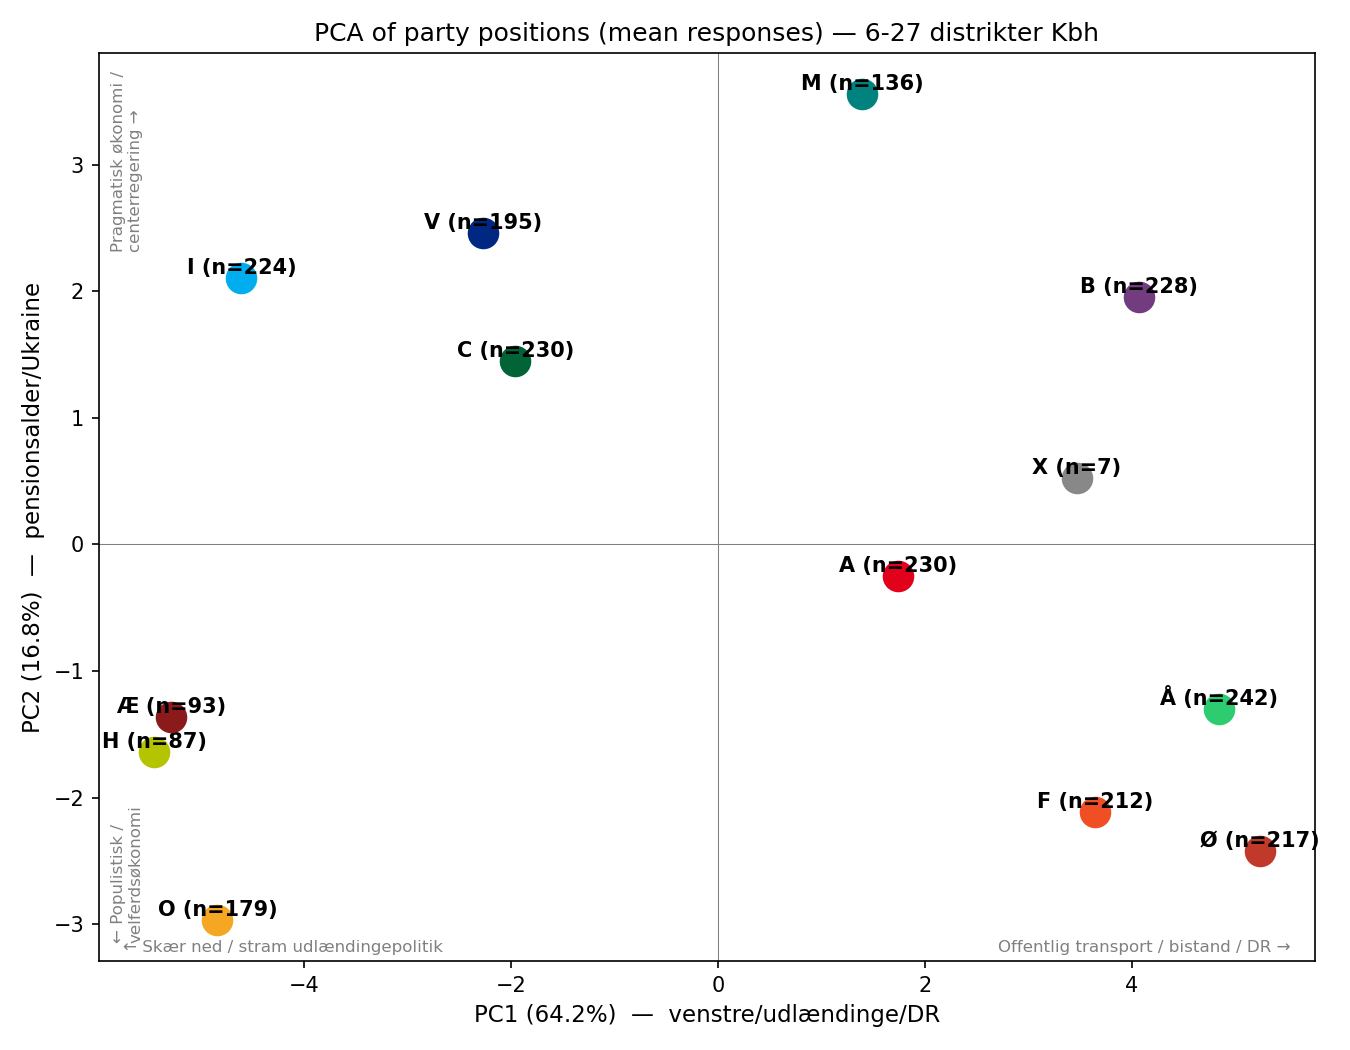
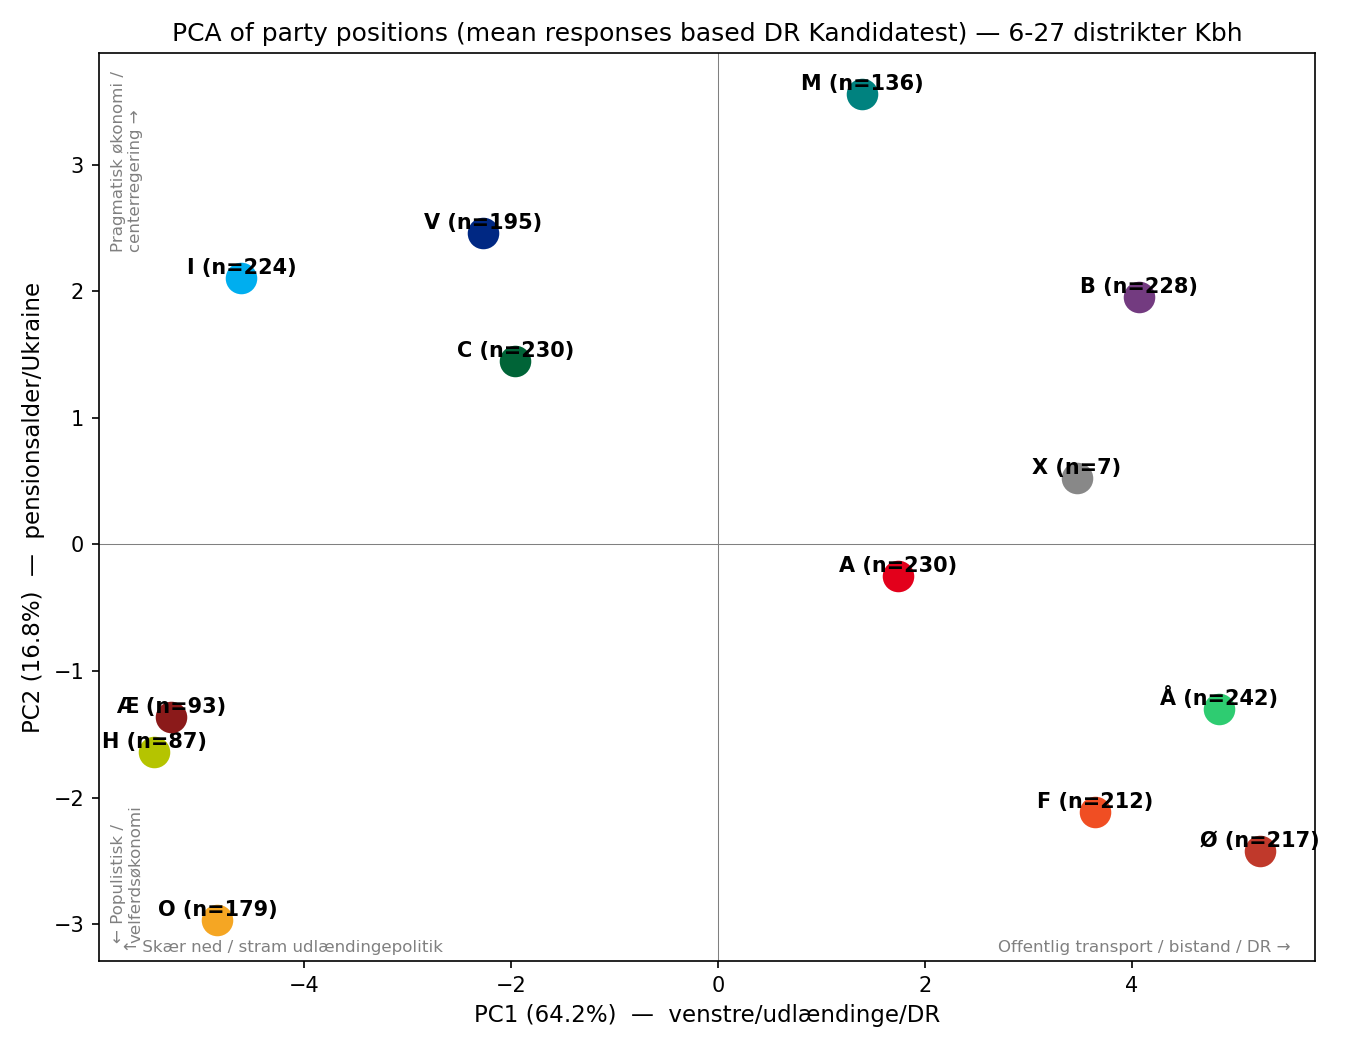
pca_plot

Changed region(s): [[0.1867, 0.0, 0.8711, 0.061], [0.8711, 0.0, 0.9022, 0.0305]]

diff --git a/pca_test_02.py b/pca_test_02.py
@@ -73,7 +73,7 @@ ax.axvline(0, color="grey", lw=0.5)
 
 ax.set_xlabel(f"PC1 ({pca.explained_variance_ratio_[0]:.1%})  —  venstre/udlændinge/DR", fontsize=11)
 ax.set_ylabel(f"PC2 ({pca.explained_variance_ratio_[1]:.1%})  —  pensionsalder/Ukraine", fontsize=11)
-ax.set_title("PCA of party positions (mean responses) — 6-27 distrikter Kbh")
+ax.set_title("PCA of party positions (mean responses based DR Kandidatest) — 6-27 distrikter Kbh")
 
 # Directional annotations
 ax.annotate("← Skær ned / stram udlændingepolitik", xy=(0.02, 0.01), xycoords="axes fraction",
